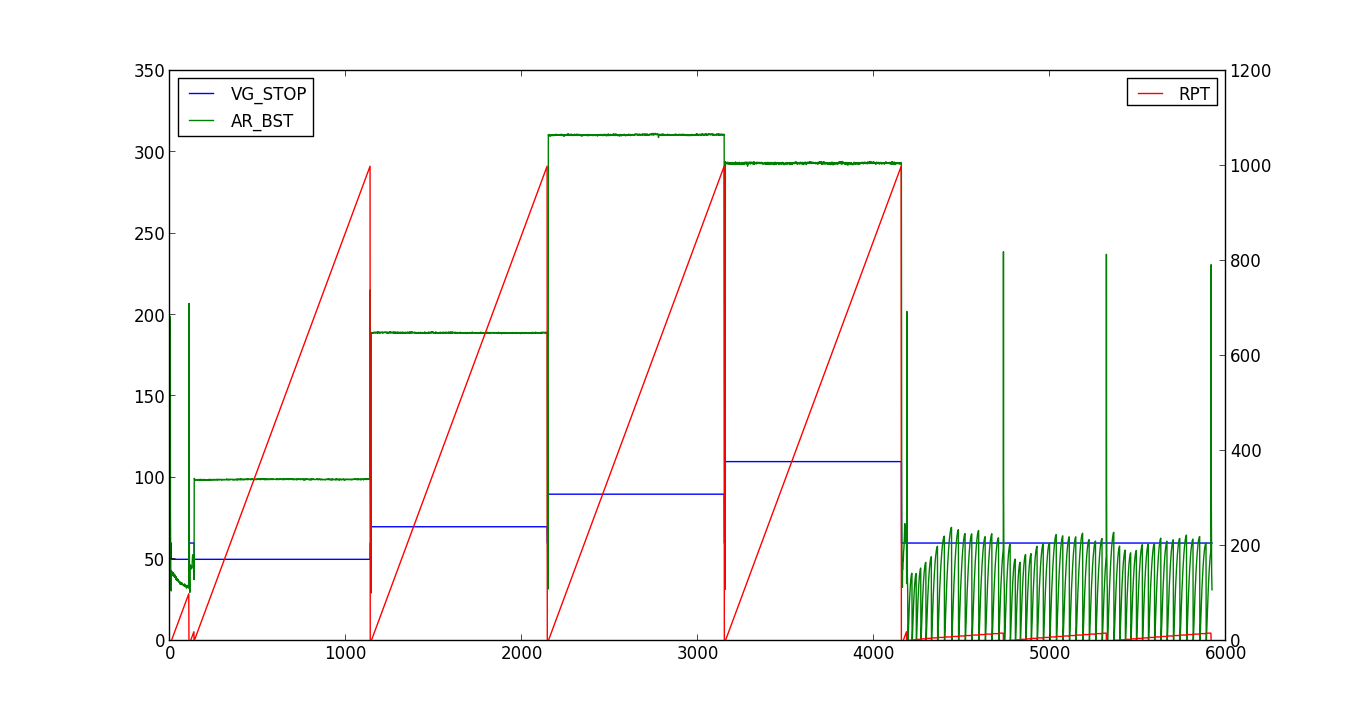
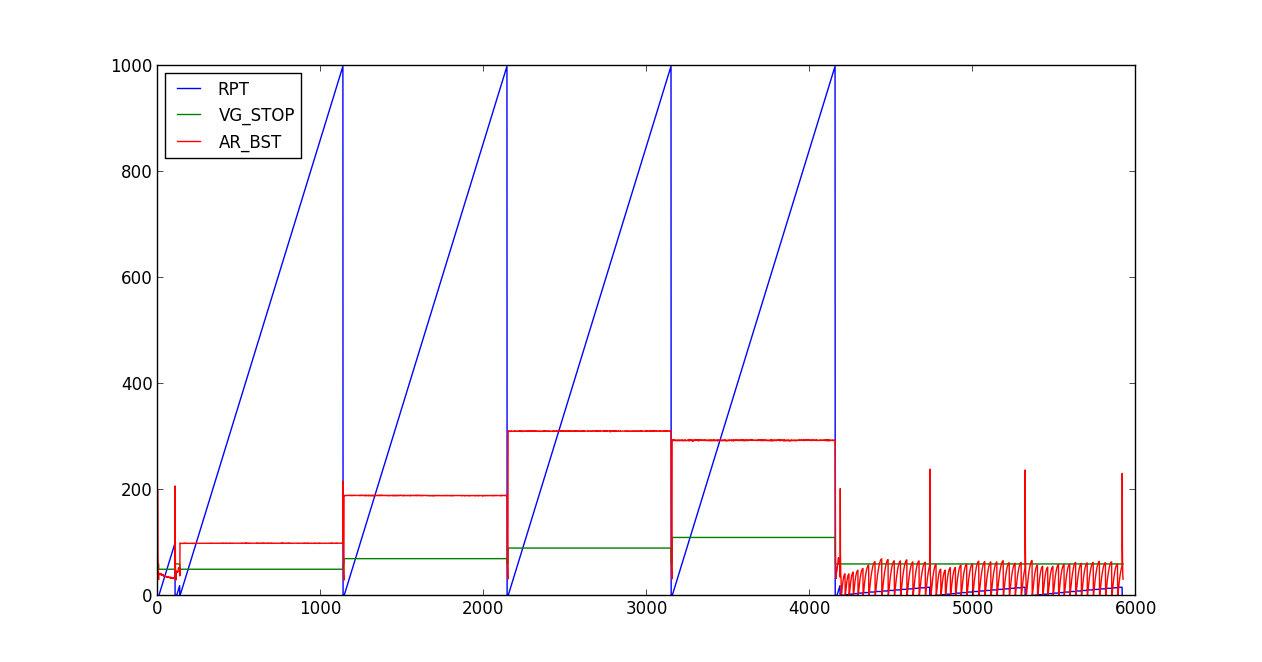
dox work 140916

diff --git a/docs/overview_examples.rst b/docs/overview_examples.rst
@@ -42,7 +42,7 @@ the channel names::
     {0: 'ch0', 1: 'ch1', 2: 'ch2', 3: 'ch3', 4: 'ch4', 5: 'ch5'}
 
 
-The attribute chnames_0 is always available, it is a sort of fall-back names if
+The attribute chnames_0 is always available, it is a sort of fall-back if
 chnames is not set. If not set, chnames is None.
 
 The ChannelPack objects are made callable::
@@ -72,7 +72,7 @@ Esoteric
    making clear that this might be of interrest for only a few.
 
 channelpack make use of a humble rc file. If a file exist in
-:func:`os.path.expanduser`, with the name
+`os.path.expanduser('~')`, with the name
 :data:`channelpack.pack.CHANNELPACK_RC_FILE`, being ``.channelpackrc``, it can
 have this content::
 
@@ -87,7 +87,7 @@ only functionality from this currently is that two attributes are set::
     >>> tp.mtimestamp
     'Tue Sep  9 23:00:04 2014'
 
-Given that there was some file with the same base name as the loaded file, but
+given that there was some file with the same base name as the loaded file, but
 with an extension as listed in `originextensions` value. The loaded file was::
 
     >>> tp.filename
@@ -96,7 +96,7 @@ with an extension as listed in `originextensions` value. The loaded file was::
 The idea behind this is that the modification time of the original file (if any)
 might be the time when some measurement was done, and so this time is made
 available. Such a file is only searched for in the same directory as the loaded
-file.
+file sits in.
 
 Slicing out relevant parts of data
 ==================================
@@ -119,7 +119,7 @@ Slicing out relevant parts of data
    Put condition RPT > AR_BST and then show VG_STOP on plot by masking. Also
    show how filter works and that it gives arrays of reduced size.
 
-A dbf file with some of the channel names (columns) of interrest::
+Assume a dbf file with some of the channel names (columns) of interrest::
 
     >>> dp = cp.dbfpack('mesdat.dbf', (6, 7, 9, 12, 14, 25, 27, 33))
     >>> dp.chnames
@@ -128,11 +128,13 @@ A dbf file with some of the channel names (columns) of interrest::
     {33: 'ch33', 6: 'ch6', 7: 'ch7', 9: 'ch9', 12: 'ch12', 14: 'ch14', 25: 'ch25', 27: 'ch27'}
 
 .. note:: The chnames and chnames_0 attributes are currently dicts, but will be
-   ordered dicts in a coming update. Nicer interactive output (channels in
-   order).
+   ordered dicts in a coming update. That should give nicer interactive output
+   (channels in order).
 
-Using your favourite plotting library, (`matplotlib <http://matplotlib.org/>`_)
-plot some channels::
+Using your favourite plotting library, (`matplotlib <http://matplotlib.org/>`_),
+make a script and plot some channels::
+
+    # plotit1.py
 
     import matplotlib.pyplot as pp
 
@@ -141,16 +143,37 @@ plot some channels::
     dp = cp.dbfpack('mesdat.dbf', (6, 7, 9, 12, 14, 25, 27, 33))
     dp.eat_config()                 # Don't show
 
-    pp.figure(figsize=(13.5, 7))
+    pp.figure(figsize=(12.5, 6.5))
 
     ax1 = pp.subplot(111)
-    ax2 = pp.twinx(ax1)
 
-    for n in (14, 25):
+    for n in (6, 14, 25):
         ax1.plot(dp(n), label=dp.name(n))
 
-    ax2.plot(dp(6), label=dp.name(6), color='red')
-    ax2.set_ylim(top=1200)
+    prop = {'size': 12}
+    ax1.legend(loc='upper left', prop=prop)
+
+    pp.show()
+
+.. image:: pics/plot1.png
+
+code debug rst::
+
+    # plotit1.py
+
+    import matplotlib.pyplot as pp
+
+    import channelpack as cp
+
+    dp = cp.dbfpack('mesdat.dbf', (6, 7, 9, 12, 14, 25, 27, 33))
+    dp.eat_config()                 # Don't show
+
+    pp.figure(figsize=(12.5, 6.5))
+
+    ax1 = pp.subplot(111)
+
+    for n in (6, 14, 25):
+        ax1.plot(dp(n), label=dp.name(n))
 
     prop = {'size': 12}
     ax1.legend(loc='upper left', prop=prop)
@@ -158,7 +181,8 @@ plot some channels::
 
     pp.show()
 
-.. image:: pics/plot1.png
+
+Rewrite above. See plotit2.py
 
 Fantastic
 
